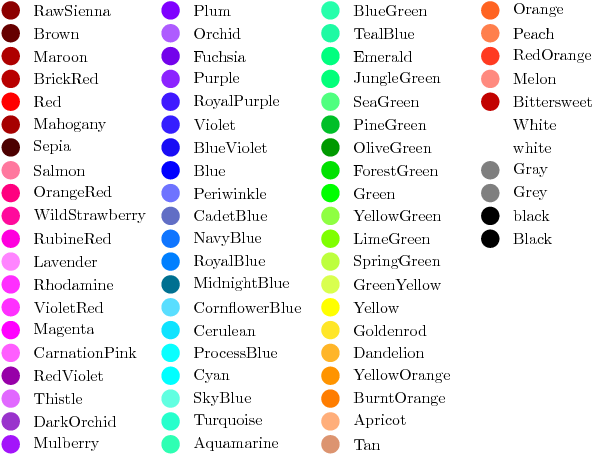
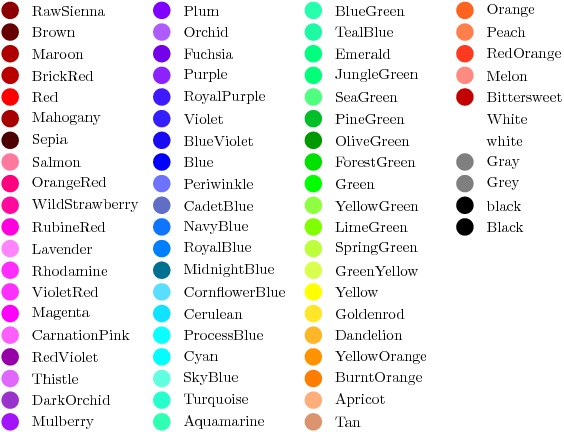
Colours in colour table fixed. Documentation of the set xformat command bugfixed. Google Analytics added to website.
git-svn-id: svn://127.0.0.1/pplsvn@1003 8e462c0f-ee70-4953-a96e-5db927b55778

diff --git a/extras/website/source/HTMLdoc/0.8/sec-set_xformat.html b/extras/website/source/HTMLdoc/0.8/sec-set_xformat.html
@@ -130,11 +130,11 @@ plot [-pi:2*pi] sin(x)
 </tr>
 </table> </p><h3 id="a0000000791">Changing the Slant of Axis Labels</h3>
 <p>The <tt class="tt">set xformat</tt> command<a name="a0000000792" id="a0000000792"></a> and its companions may also be followed by keywords which control the angle at which tick labels are drawn. By default, all tick labels are written horizontally, a behaviour which may be reproduced by issuing the command: </p><pre>
-set xformat horizontal
+set xformat auto horizontal
 </pre><p> Alternatively, tick labels may be set to be written vertically, by issuing the command </p><pre>
-set xformat vertical
+set xformat auto vertical
 </pre><p> or to be written at any clockwise rotation angle from the horizontal using commands of the form </p><pre>
-set xformat rotate 10
+set xformat auto rotate 10
 </pre><p>Axis labels may also be made to appear at arbitrary rotations using commands such as </p><pre>
 set unit angle nodimensionless
 set xlabel "I'm upside down" rotate unit(0.5*revolution)

diff --git a/extras/website/addGoogleAnalytics.py b/extras/website/addGoogleAnalytics.py
@@ -1,0 +1,35 @@
+#!/usr/bin/python
+# $Id$
+
+# This script walks through a tree of HTML (which should be in the cwd), and
+# adds in the Google Analytics script to each page's header
+
+import os,glob
+
+assert os.path.exists("index.html") # Just double check that we're in the output HTML directory, not the svn working directory, before running the next command
+
+os.system("rm -Rf .svn */.svn */*/.svn */*/*/.svn */*/*/*/.svn */*/*/*/*/.svn")
+
+for fn in glob.glob("*.html")+glob.glob("*/*.html")+glob.glob("*/*/*.html")+glob.glob("*/*/*/*.html")+glob.glob("*/*/*/*/*.html")+glob.glob("*/*/*/*/*/*.html"):
+ print fn
+ contents = open(fn).read()
+ lines = contents.split('\n')
+ done = False
+ for i in range(len(lines)):
+  if lines[i].strip()=='</head>':
+   lines.insert(i,r"""<script type="text/javascript">
+  var _gaq = _gaq || [];
+  _gaq.push(['_setAccount', 'UA-22395429-2']);
+  _gaq.push(['_trackPageview']);
+  (function() {
+    var ga = document.createElement('script'); ga.type = 'text/javascript'; ga.async = true;
+    ga.src = ('https:' == document.location.protocol ? 'https://ssl' : 'http://www') + '.google-analytics.com/ga.js';
+    var s = document.getElementsByTagName('script')[0]; s.parentNode.insertBefore(ga, s);
+  })();
+</script>""")
+   break
+ contents = "\n".join(lines)
+ out = open(fn,"w")
+ out.write(contents)
+ out.close()
+
